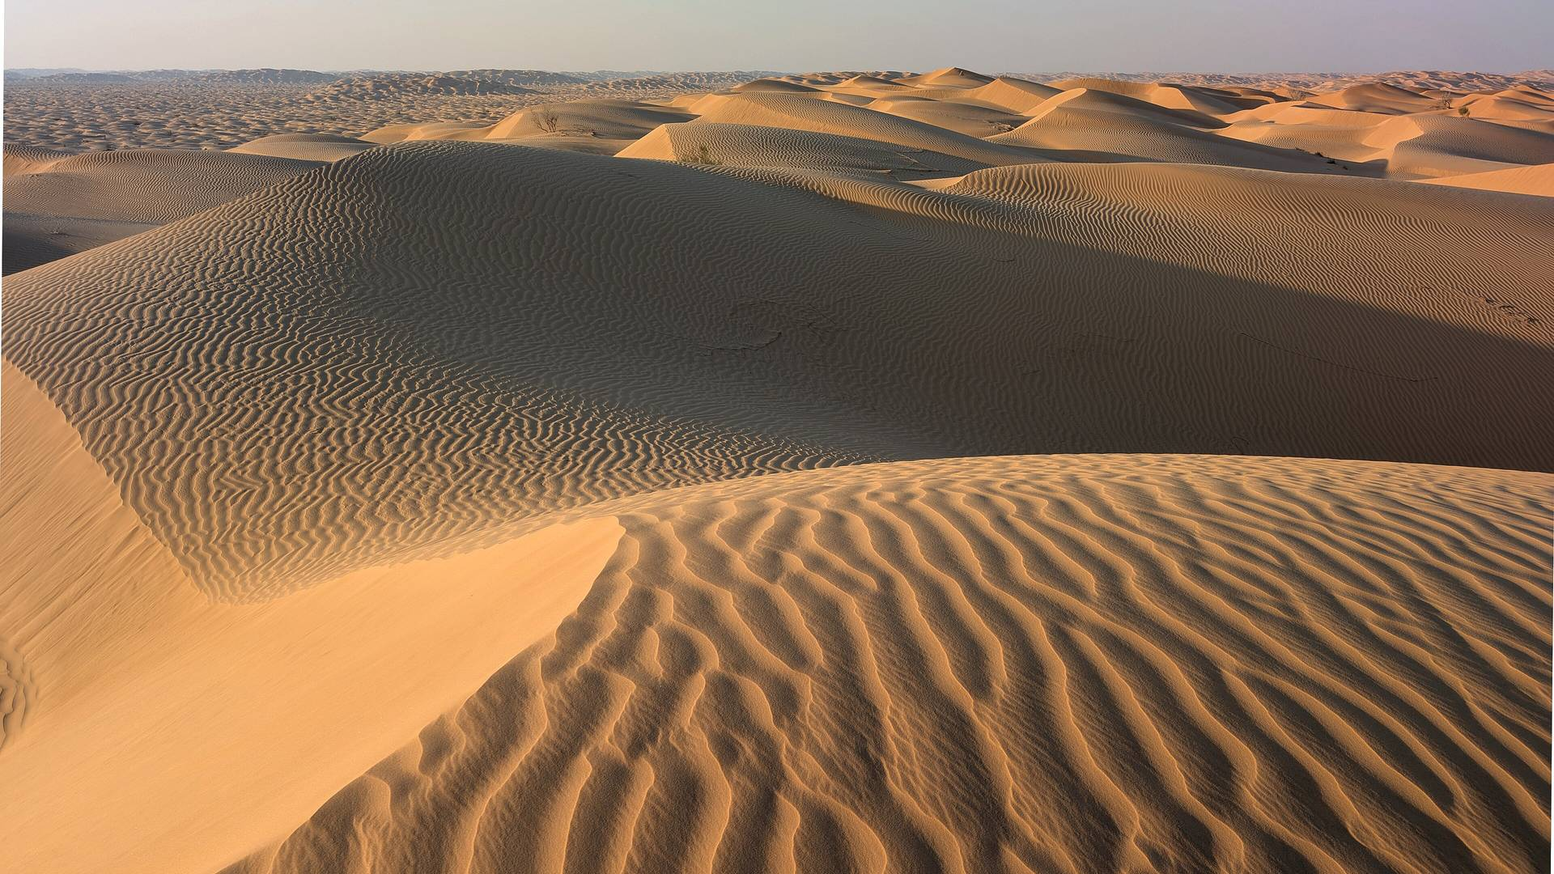
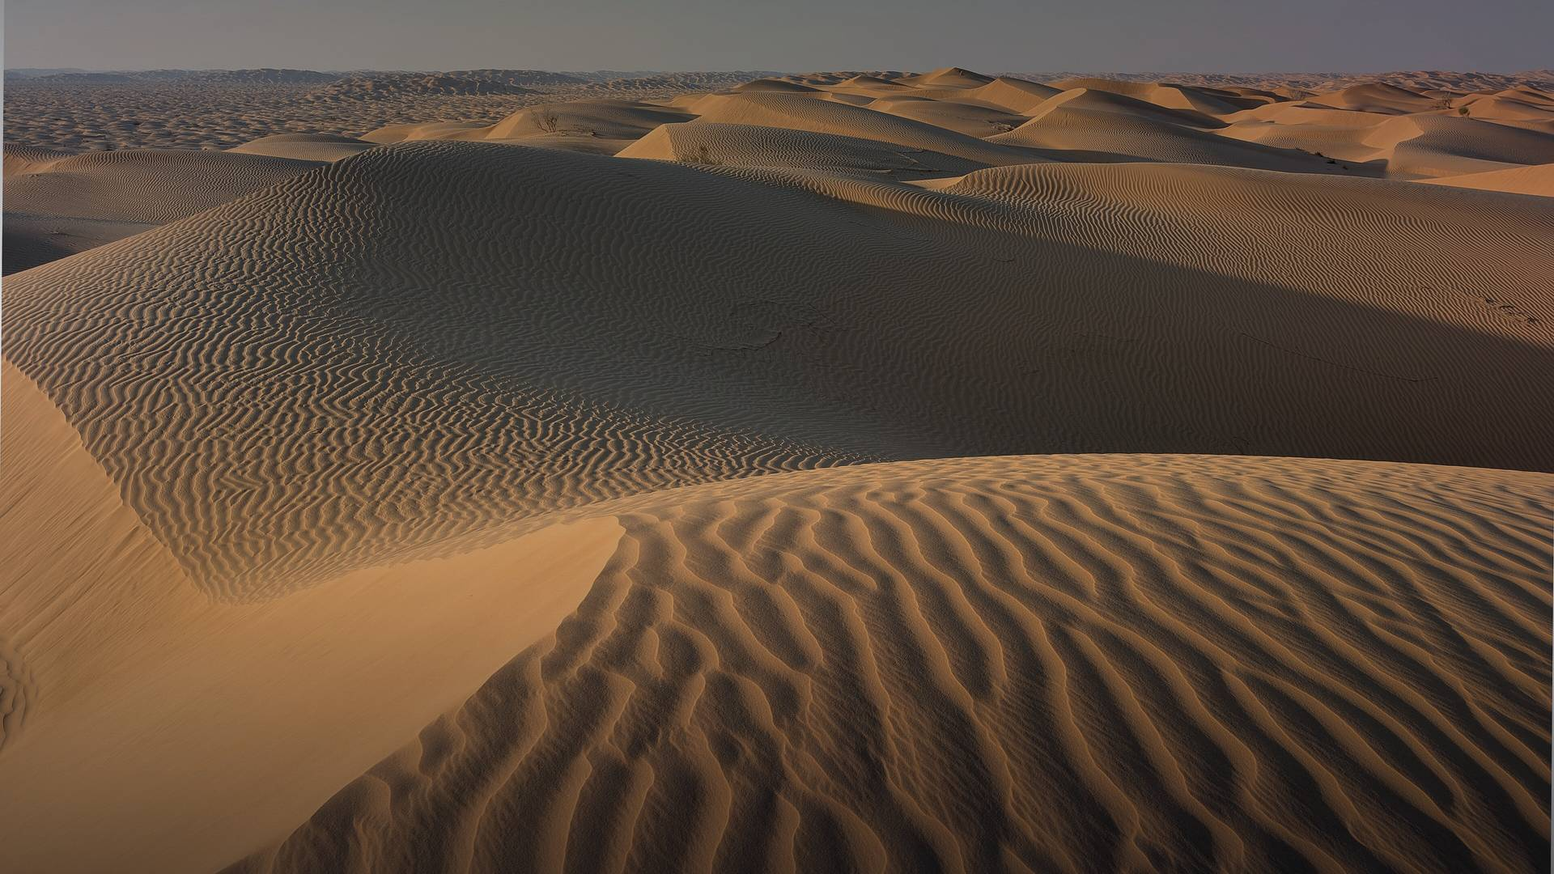
سلاسة: التظليل داخل الصور، وبدون ظل متحرك، وحركة أقصر، وما نرسم الشاشة المخفية، وإعادة رسم وحدة بعد البيانات، والبطاقات ما تنعاد إلا لو تغيرت (الإطار ٣٠ ← ١٧ جزء من الثانية على التلفزيون)

diff --git a/web/js/home.js b/web/js/home.js
@@ -158,6 +158,9 @@
 
   const $ = (k) => root.querySelector(`[data-k="${k}"]`);
 
+  // يكتب في العنصر بس لو المحتوى تغيّر (كل كتابة = إعادة تخطيط ورسم على التلفزيون)
+  const setHTML = (el, h) => { if (el && el.__h !== h) { el.innerHTML = h; el.__h = h; } };
+
   function renderRows() {
     const R = rows();
     $("r1").innerHTML = R[1].length ? R[1].map((it, c) => tileHTML(it, 1, c)).join("")
@@ -210,15 +213,21 @@
       const cls = p.id === np.p.id ? "next" : p.at <= now ? "past" : "";
       return `<div class="hp-cell ${cls}"><div class="n">${p.name}</div><div class="t">${c.h}:${c.m}</div></div>`;
     }).join("");
-    el.innerHTML = `<div class="label">${icon("bell")}الصلاة القادمة</div>
+    setHTML(el, `<div class="label">${icon("bell")}الصلاة القادمة</div>
       <div class="hp-row"><div class="hp-name">${np.p.name}</div><div class="hp-when"><span class="ltr">${t.h}:${t.m}</span> ${t.ampm}<b>بعد ${F.duration(np.mins)}</b></div></div>
-      <div class="hp-cells">${cells}</div>`;
+      <div class="hp-cells">${cells}</div>`);
   }
 
   // نفس قاعدة شاشة الانتظار: ممنوع نقص النص. نصغّر الخط، وإذا ما دخل ناخذ البديل اللي بعده
   // (والنص الطويل ينقرا كامل من "الأذكار" فوق)
+  let contentSig = "";
   function renderContentCard(now) {
     const el = $("contentCard");
+    // نفس المحتوى اللي معروض: ما نعيد القياس (القياس بكل الأحجام كان يتعاد كل ١٥ و٢٠ ثانية بدون داعي)
+    const first = window.Content && Content.current(now, 0);
+    const sig = first ? (first.item.sourceId || first.item.text.slice(0, 40)) + "|" + first.title : "";
+    if (sig && sig === contentSig) return;
+    contentSig = sig;
     for (let offset = 0; offset < 6; offset++) {
       const c = window.Content && Content.current(now, offset);
       if (!c) break;
@@ -269,19 +278,23 @@
       }
     }
     // البطاقة ما تكبر: لو ما دخل كل شي نشيل من آخر القائمة (الأقل أهمية) بدل ما ينقص سطر من نصه
+    const key = lines.join("");
+    if (el.__lines === key) return;
+    el.__lines = key;
     const paint = () => { el.innerHTML = `<div class="label">${icon("calendar")}اليوم</div>` + (lines.length ? lines.join("") : `<p class="hc-empty">حدد مدينتك وفريقك من الإعدادات.</p>`); };
     paint();
     while (lines.length > 1 && el.scrollHeight > el.clientHeight + 1) { lines.pop(); paint(); }
   }
 
   function renderStatus() {
+    if (window.App && App.current && App.current !== "home") return; // الواجهة مخفية (شاشة الانتظار ظاهرة)
     const now = new Date();
     const c = F.clock(now);
-    $("time").innerHTML = `<span class="ltr">${c.h}:${c.m}</span><small>${c.ampm}</small>`;
+    setHTML($("time"), `<span class="ltr">${c.h}:${c.m}</span><small>${c.ampm}</small>`);
     const parts = F.hijri(now).split("،");
-    $("date").innerHTML = `${esc(parts[0])}<small>${esc((parts[1] || "").trim())}</small><small class="h-greg">${esc(F.gregorian(now))} م</small>`;
+    setHTML($("date"), `${esc(parts[0])}<small>${esc((parts[1] || "").trim())}</small><small class="h-greg">${esc(F.gregorian(now))} م</small>`);
     const w = DATA.weather();
-    if (w) { const g = F.weather(w.data.now.code); $("wx").innerHTML = `${icon(g[1])}${F.num(w.data.now.temp)}°`; }
+    if (w) { const g = F.weather(w.data.now.code); setHTML($("wx"), `${icon(g[1])}${F.num(w.data.now.temp)}°`); }
     $("wx").style.display = w ? "" : "none";
     renderPrayerCard(now);
     renderContentCard(now);
@@ -403,8 +416,8 @@
       root = build(el); loadApps(); renderRows(); renderStatus();
       DATA.onChange(renderStatus);
       // خانة الأذكار تتبدل كل ٤٠ ثانية تقريباً
-      setInterval(() => renderContentCard(new Date()), 20000);
-      window.addEventListener("riwaq-content", () => renderContentCard(new Date())); // أول ما يوصل ملف المحتوى
+      setInterval(() => { if (!window.App || App.current === "home") renderContentCard(new Date()); }, 20000);
+      window.addEventListener("riwaq-content", () => { contentSig = ""; renderContentCard(new Date()); }); // أول ما يوصل ملف المحتوى
     },
     // أندرويد يناديها لضغطة البيت المطوّلة (لو الجهاز يرسلها)
     openRestore() { if (mode !== "nav") { $("picker").classList.remove("on"); $("reader").classList.remove("on"); $("quick").classList.remove("on"); mode = "nav"; } openRestore(); },

diff --git a/web/css/home.css b/web/css/home.css
@@ -22,9 +22,9 @@
 .h-nav { display: flex; gap: 12px; }
 .nav-pill { display: inline-flex; align-items: center; gap: 10px; height: 58px; padding: 0 22px 4px; border-radius: 999px;
   font-size: 22px; color: var(--ink-2); background: var(--card); border: 1px solid var(--line);
-  transition: transform .25s var(--ease), background .25s, color .25s, box-shadow .25s; white-space: nowrap; }
+  transition: transform .12s ease-out, background .12s, color .12s; white-space: nowrap; }
 .nav-pill .ic { font-size: 24px; color: var(--gold); }
-.nav-pill.focus { background: var(--gold); color: #1E1608; transform: scale(1.06); box-shadow: 0 14px 34px rgba(0,0,0,.45); }
+.nav-pill.focus { background: var(--gold); color: #1E1608; transform: scale(1.06); }
 .nav-pill.focus .ic { color: #1E1608; }
 
 /* ===== الوسط: ٣ بطاقات ===== */
@@ -85,14 +85,16 @@
 .h-row-title { font-size: 28px; font-weight: 600; }
 .h-row-hint { font-size: 20px; color: var(--ink-3); }
 .h-track { position: relative; height: 196px; overflow: visible; }
-.h-strip { position: absolute; top: 12px; right: 92px; display: flex; gap: 28px; transition: transform .45s var(--ease); }
+/* صف التطبيقات طبقة لحالها: لما يتزحلق ما ينعاد رسم التطبيقات، وحركة أقصر (إطارات أقل على التلفزيون) */
+.h-strip { position: absolute; top: 12px; right: 92px; display: flex; gap: 28px; transition: transform .25s ease-out; will-change: transform; }
 .h-row.small .h-track { height: 140px; }
 
 .tile {
   position: relative; flex: none; width: 300px; height: 170px; border-radius: 24px;
   overflow: hidden; color: #fff;
-  transition: transform .28s var(--ease), box-shadow .28s var(--ease), opacity .3s;
-  box-shadow: 0 10px 30px rgba(0,0,0,.35);
+  /* الحركة: التكبير بس (الظل الكبير المتحرك كان يتعاد رسمه مع كل إطار ويعلّق التلفزيون) */
+  transition: transform .12s ease-out, opacity .3s;
+  box-shadow: 0 6px 14px rgba(0,0,0,.3);
 }
 /* الألوان محسوبة في home.js (color-mix ما يشتغل على متصفحات التلفزيونات القديمة) */
 .tile .bg { position: absolute; inset: 0; background: linear-gradient(150deg, var(--c1), var(--c2)); }
@@ -103,8 +105,8 @@
 .tile.small .ic { position: absolute; top: 20px; right: 22px; font-size: 38px; color: var(--gold); }
 .tile.small .name { font-size: 23px; bottom: 14px; }
 
-.tile.focus { transform: scale(1.08); box-shadow: 0 0 0 4px var(--gold), 0 26px 60px rgba(0,0,0,.55); z-index: 2; }
-.tile.moving { transform: scale(1.08) translateY(-14px); box-shadow: 0 0 0 4px var(--gold), 0 36px 70px rgba(0,0,0,.6); }
+.tile.focus { transform: scale(1.08); box-shadow: 0 0 0 4px var(--gold); z-index: 2; }
+.tile.moving { transform: scale(1.08) translateY(-14px); box-shadow: 0 0 0 4px var(--gold); }
 .tile.moving::before { content: ""; position: absolute; inset: 8px; border: 2px dashed rgba(255,255,255,.7); border-radius: 18px; z-index: 3; }
 
 /* قائمة الخيارات تحت التطبيق */

diff --git a/web/js/scene.js b/web/js/scene.js
@@ -6,7 +6,7 @@
  */
 (function () {
   const P = {
-    night:  { sky: ["#05070F", "#0B1226", "#1A2140"], glow: "#3A4A7A", glowA: 0.35, sun: null, moon: [1160, 150],
+    night:  { sky: ["#05070F", "#0B1226", "#1A2140"], glow: "#3A4A7A", glowA: 0.35, sun: null, moon: [1180, 44],
               dunes: ["#1B2340", "#141B33", "#0E1427", "#090E1C"], stars: 1, clouds: 0.06 },
     fajr:   { sky: ["#141836", "#3D3560", "#B87566"], glow: "#F0A07A", glowA: 0.55, sun: null, moon: null,
               dunes: ["#5A4560", "#3F3150", "#2A2140", "#1A1530"], stars: 0.35, clouds: 0.3 },
@@ -14,7 +14,7 @@
               dunes: ["#D7B98A", "#C59E6B", "#A97F50", "#80603B"], stars: 0, clouds: 0.5 },
     asr:    { sky: ["#2A2140", "#8A4A48", "#EAA35A"], glow: "#FFC77A", glowA: 0.75, sun: [700, 610], moon: null,
               dunes: ["#B2714E", "#8E5440", "#663B33", "#3F2528"], stars: 0, clouds: 0.32 },
-    dusk:   { sky: ["#0F1430", "#33284A", "#8C5762"], glow: "#D98B6E", glowA: 0.5, sun: null, moon: [1160, 160],
+    dusk:   { sky: ["#0F1430", "#33284A", "#8C5762"], glow: "#D98B6E", glowA: 0.5, sun: null, moon: [1180, 44],
               dunes: ["#3A2E4A", "#2A2240", "#1C1832", "#121024"], stars: 0.6, clouds: 0.14 }
   };
 
@@ -58,7 +58,9 @@
     const p = P[period] || P.night;
     const moon = period === "night" && p.moon
       ? `<svg viewBox="0 0 1920 1080" xmlns="http://www.w3.org/2000/svg"><defs><radialGradient id="moonGlow"><stop offset="0" stop-color="#C9D6FF" stop-opacity=".22"/><stop offset="1" stop-color="#C9D6FF" stop-opacity="0"/></radialGradient></defs><circle cx="${p.moon[0]}" cy="${p.moon[1]}" r="160" fill="url(#moonGlow)"/><path d="M${p.moon[0] + 22} ${p.moon[1] - 40} a44 44 0 1 0 22 78 a36 36 0 1 1 -22 -78z" fill="#F4EBD6" opacity=".92"/></svg>` : "";
-    el.innerHTML = `<img class="bg-photo" src="${b.src}" alt=""><div class="bg-tint bg-${period}"></div>${moon}`;
+    // التظليل داخل الصورة نفسها (tools/import-backgrounds.py): طبقة وحدة بس، أخف على التلفزيون
+    el.innerHTML = `<img class="bg-photo" src="${b.src}" alt="" decoding="async">${moon}`;
+    document.getElementById("stage").classList.add("bgphoto");
     Scene.credit = b.credit;
     return true;
   }
@@ -66,6 +68,7 @@
   function render(el, period) {
     if (window.CONFIG && CONFIG.bgStyle !== "drawn" && photo(el, period)) return;
     Scene.credit = "";
+    document.getElementById("stage").classList.remove("bgphoto");
     const p = P[period] || P.night;
     const sun = p.sun ? `<circle cx="${p.sun[0]}" cy="${p.sun[1]}" r="300" fill="url(#sunGlow)"/><circle cx="${p.sun[0]}" cy="${p.sun[1]}" r="46" fill="#FFF4DC" opacity=".95"/>` : "";
     const moon = p.moon ? `<circle cx="${p.moon[0]}" cy="${p.moon[1]}" r="160" fill="url(#moonGlow)"/><path d="M${p.moon[0] + 22} ${p.moon[1] - 40} a44 44 0 1 0 22 78 a36 36 0 1 1 -22 -78z" fill="#F4EBD6" opacity=".9"/>` : "";

diff --git a/web/css/base.css b/web/css/base.css
@@ -127,8 +127,8 @@ html, body {
 /* الخلفية تتحرك بهدوء (CONFIG.motion): غيوم تمشي ونجوم تلمع. transform و opacity بس عشان تكون خفيفة على التلفزيون */
 /* صور الخلفية الحقيقية: الصورة تغطي الشاشة، وفوقها تظليل حسب الفترة عشان الكلام ينقرا */
 .scene .bg-photo { position: absolute; inset: 0; width: 100%; height: 100%; object-fit: cover; }
-.scene .bg-tint { position: absolute; inset: 0; background: linear-gradient(180deg, rgba(6,8,14,.55) 0%, rgba(6,8,14,.25) 38%, rgba(6,8,14,.45) 70%, rgba(6,8,14,.7) 100%); }
-.scene .bg-day, .scene .bg-asr, .scene .bg-fajr { background: linear-gradient(180deg, rgba(6,8,14,.45) 0%, rgba(6,8,14,.12) 38%, rgba(6,8,14,.3) 70%, rgba(6,8,14,.62) 100%); }
+/* مع الصور: الصورة مظللة من أصلها، فما نحط طبقات تظليل فوقها (كل طبقة بحجم الشاشة تثقّل الرسم) */
+#stage.bgphoto .shade { display: none; }
 
 /* الغيوم طبقة لحالها، وتتحرك خطوة بالثانية (مو ٦٠ مرة): نفس الشكل للعين، وأخف بكثير على معالج التلفزيون */
 .cloud-layer { position: absolute; top: 0; left: 0; width: 1920px; height: 440px; overflow: hidden; pointer-events: none; }

diff --git a/web/js/saver.js b/web/js/saver.js
@@ -388,18 +388,20 @@
   window.Saver = {
     init(el) {
       root = build(el);
-      setInterval(() => { leagueIdx++; renderLeague(root, true); }, 8000);
+      const visible = () => !window.App || App.current === "saver";
+      setInterval(() => { if (visible()) { leagueIdx++; renderLeague(root, true); } }, 8000);
       setInterval(() => {
         shiftIdx = (shiftIdx + 1) % SHIFTS.length;
         root.querySelector(".saver-content").style.transform = `translate(${SHIFTS[shiftIdx][0]}px, ${SHIFTS[shiftIdx][1]}px)`;
       }, 4 * 60 * 1000);
-      DATA.onChange(() => this.tick(true));
+      DATA.onChange(() => { if (visible()) this.tick(true); });
       this.ready = true;
       this.tick(true);
       // خانة المحتوى تتبدل كل ٤٠ ثانية تقريباً (أذكار، حديث، صحابة)، فنحدّثها بدون انتظار الدقيقة
-      setInterval(() => renderHadith(root, new Date()), 20000);
+      setInterval(() => { if (visible()) renderHadith(root, new Date()); }, 20000);
     },
     tick(force) {
+      if (window.App && App.current && App.current !== "saver") return; // مخفية: ترسم أول ما تطلع (App.show)
       const now = new Date();
       const min = F.minutesOfDay(now);
       if (!force && min === lastMinute) return;

diff --git a/web/js/data.js b/web/js/data.js
@@ -266,9 +266,12 @@
       const jobs = [loadWeather, loadDust, loadMetals, loadFx, loadNews, loadCalendar, loadTasks, loadTables, loadTeams, loadTeamColors];
       for (const job of jobs) {
         try { await job(); } catch (e) { /* نجرب المرة الجاية. البيانات القديمة تنحكم بحدها */ }
-        listeners.forEach((cb) => cb());
       }
-    } finally { running = false; }
+    } finally {
+      running = false;
+      // الشاشة تعيد الرسم مرة وحدة بعد ما توصل كل البيانات (كان بعد كل مصدر: إعادة رسم كاملة ١٠ مرات ورا بعض)
+      listeners.forEach((cb) => cb());
+    }
   }
 
   window.DATA = {

diff --git a/web/js/app.js b/web/js/app.js
@@ -51,7 +51,7 @@
     App.current = name;
     document.getElementById("home").classList.toggle("on", name === "home");
     document.getElementById("saver").classList.toggle("on", name === "saver");
-    if (name === "saver") Saver.tick(true); else stage.classList.remove("alert");
+    if (name === "saver") Saver.tick(true); else { stage.classList.remove("alert"); Home.tick(); }
     updateScene();
     syncDevbar();
   }

diff --git a/tools/import-backgrounds.py b/tools/import-backgrounds.py
@@ -38,6 +38,25 @@ def get(url, binary=False):
     return data if binary else json.loads(data)
 
 
+def shade(im, period):
+    """تدرّج غامق من فوق ومن تحت (نفس التظليل اللي كان طبقة CSS)"""
+    from PIL import Image as I
+    light = period in ("day", "asr", "fajr")
+    stops = [(0, .45 if light else .55), (.38, .12 if light else .25), (.70, .30 if light else .45), (1, .62 if light else .70)]
+    h = im.height
+    col = []
+    for y in range(h):
+        f = y / (h - 1)
+        for (a, va), (b, vb) in zip(stops, stops[1:]):
+            if a <= f <= b:
+                col.append(va + (vb - va) * (f - a) / (b - a)); break
+    mask = I.new("L", (1, h))
+    mask.putdata([int(255 * v) for v in col])
+    mask = mask.resize(im.size)
+    dark = I.new("RGB", im.size, (6, 8, 14))
+    return I.composite(dark, im, mask)
+
+
 def clean(s):
     return re.sub(r"\s+", " ", html.unescape(re.sub(r"<[^>]+>", "", s or ""))).strip()
 
@@ -63,6 +82,8 @@ def main():
         else:
             nh = int(w * 9 / 16); top = int((h - nh) * 0.3); im = im.crop((0, top, w, top + nh))  # نخلي من السما أكثر
         im = im.resize((1920, 1080), Image.LANCZOS)
+        # التظليل (عشان الكلام ينقرا) داخل الصورة نفسها، مو طبقة فوقها: التلفزيون يرسم طبقة وحدة بدل ثنتين (أسلس)
+        im = shade(im, period)
         path = os.path.join(OUT_DIR, f"{period}.jpg")
         im.save(path, "JPEG", quality=70, optimize=True, progressive=True)
         meta[period] = {"src": f"img/bg/{period}.jpg", "credit": f"{artist} ({lic})", "page": info.get("descriptionurl", "")}

diff --git a/PROJECT-BRIEF.md b/PROJECT-BRIEF.md
@@ -433,3 +433,10 @@
 - ⚠ للنشر في Google Play: صلاحية USE_EXACT_ALARM مسموحة لتطبيقات المنبّهات (الأذان منها)، بس ممكن تنسأل عنها
 - ⏳ ما انجرب على التلفزيون (ما يقبل الاتصال للحين)
 
+### السلاسة على التلفزيون (2026-10-24)
+- صاحب المشروع: "فيه تعليق قوي، أهم شي السلاسة". قسنا على Xiaomi (dumpsys gfxinfo، ١٤ ضغطة): الإطار العادي ٣٠ جزء من الثانية، و١٪ من الإطارات ٢٠٠ (تعليق واضح)، والسبب حسب الجهاز "أوامر رسم بطيئة". ورواق + محرك الصفحة ~٣١٠ ميجا من الذاكرة (الأكبر في الجهاز)، والجهاز يستخدم الـ swap
+- اللي سويناه: (١) التظليل صار داخل صور الخلفية نفسها بدل طبقتين بحجم الشاشة فوقها (٢) شلنا الظل الكبير المتحرك حول التطبيق المختار وزر الشريط (كان يتعاد رسمه كل إطار) (٣) حركة التحديد أقصر (٠٫١٢ ثانية) وصف التطبيقات طبقة لحالها (٤) شاشة الانتظار ما ترسم وهي مخفية، والواجهة نفس الشي (٥) البيانات تعيد الرسم مرة وحدة بعد ما توصل كلها (كانت ١٠ مرات ورا بعض كل ٥ دقايق) (٦) بطاقة الأذكار والساعة والبطاقات ما تنعاد إلا لو تغيّر محتواها
+- النتيجة على التلفزيون: الإطار العادي **١٧** (تقريباً ٦٠ إطار بالثانية)، و٩٠٪ من الإطارات ٢٨ بدل ٥٣، وأسوأ ١٪ ١٠١ بدل ٢٠٠. وذاكرة الرسم ١٣٨ ← ١٠٠ ميجا
+- ⏳ باقي ممكن: خدمة زر البيت في عملية لحالها (عشان ضغطات الريموت ما تتأثر لو الواجهة مشغولة)، بس تزيد استهلاك الذاكرة، فننتظر نشوف هل يحتاج
+- سبب رفض الاتصال من الكمبيوتر: منفذ التصحيح في التلفزيون كان مقفل (ينقفل لما التلفزيون يعيد التشغيل أو ينام)، ورجع انفتح
+

diff --git a/CHANGELOG.md b/CHANGELOG.md
@@ -12,6 +12,7 @@
 - اختياري: مهام Todoist، ورسالة من الجوال عن طريق بوت تيليقرام خاص فيك
 - **ذكر الوقت** (قائمة جديدة فوق): أذكار الصباح من الفجر لين الظهر، وأذكار المساء من العصر لين العشاء، وسورة الملك من العشاء لين ١ بالليل، ويوم الجمعة سورة الكهف من ١٠ الصبح لين العصر وأدعية مأثورة من العصر لين المغرب. وتنبيه "حان وقت…" في الواجهة وشاشة الانتظار
 - **اللوحة السريعة:** تطلع فوق التطبيق المفتوح، والأسهم تتحكم فيها، والخيارات على قد الشاشة والقائمة تمشي مع التحديد
+- **سلاسة أكثر بكثير:** التنقل صار تقريباً ٦٠ إطار بالثانية على Xiaomi TV Box S (كان ٣٣)، والتعليقات الكبيرة انقصت للنص، وذاكرة أقل
 - **صوت الأذان وقت الصلاة:** والتلفزيون شغال (حتى داخل تطبيق ثاني: البرنامج يوقف وقت الأذان)، كل الصلوات إلا الفجر افتراضياً وكل صلاة تنطفي من الجوال، وزر الرجوع يوقفه، والتلفزيون المطفي ما يطلع منه صوت
 - **الرجوع للواجهة الأصلية من التلفزيون نفسه** (بدون كمبيوتر): من اللوحة السريعة ← خطوات آمنة: تشغيل واجهة الشركة، وشاشة التوقف، وإيقاف رواق كواجهة (ما تنفتح إلا بعد ما تشتغل واجهة الشركة). رواق يبقى تطبيق عادي ومنه "رجوع لرواق"
 - ساعة الليل (الخافتة) تبدأ ١:٣٠ بالليل لين قبل الفجر، وقبلها كل شي يطلع طول السهرة
